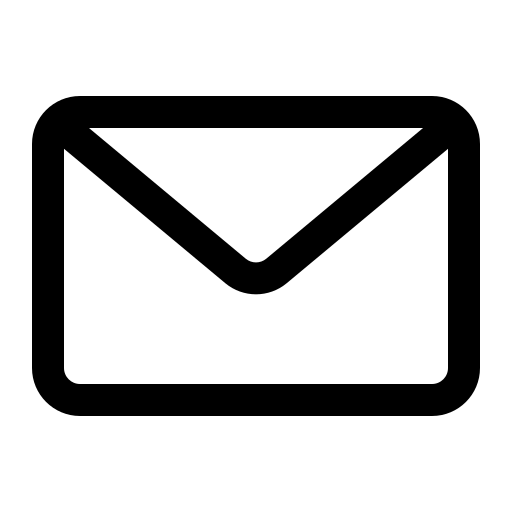
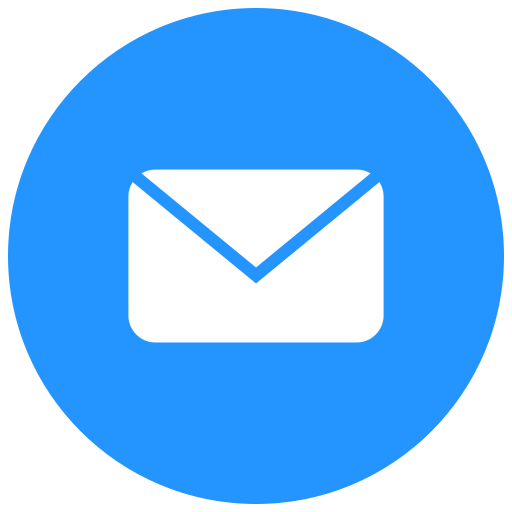
Projects, About Me, Skills, Contact
Fixed the styling and layout for projects and added a repo link for github repo and a live link for users who want to peek what the project is about

I fixed the layout and font size for the about me info.

I added a box shadow for the skills cards so they look 3d

I extended the contact page to have two sections one where you use app navigations and one where you type in the message you want to send.

diff --git a/index.html b/index.html
@@ -139,7 +139,7 @@
         <div class="projects">
           <div class="project_card">
             <div class="project_image">
-              <img src="#" alt="youtube_clone_image" class="p_image">
+              <img src="Images/youtube-clone.png" alt="youtube_clone_image" class="p_image">
             </div>
 
             <div class="project_info">
@@ -162,11 +162,21 @@
                 </P>
               </div>
             </div>
+
+            <div class="github_live_link">
+              <a href="https://github.com/KaelibDaGent/YouTube-Clone" class="github_repo">
+                <img src="icons/github.png" alt="github_repo_link" class="github_icon">
+              </a>
+
+              <a href="https://kaelibdagent.github.io/YouTube-Clone/" class="live_link">
+                <img src="icons/links.png" alt="live_link" class="live_link_icon">
+              </a>
+            </div>
         </div>
 
         <div class="project_card">
           <div class="project_image">
-            <img src="#" alt="rockpaperscissor_image" class="p_image">
+            <img src="Images/rock-paper-scissors.png" alt="rockpaperscissor_image" class="p_image">
           </div>
 
           <div class="project_info">
@@ -192,11 +202,21 @@
               </p>
             </div>
           </div>
+
+          <div class="github_live_link">
+              <a href="https://github.com/KaelibDaGent/Rock-Paper-Scissors-Game" class="github_repo">
+                <img src="icons/github.png" alt="github_repo_link" class="github_icon">
+              </a>
+
+              <a href="https://kaelibdagent.github.io/Rock-Paper-Scissors-Game/" class="live_link">
+                <img src="icons/links.png" alt="live_link" class="live_link_icon">
+              </a>
+            </div>
         </div>
 
         <div class="project_card">
           <div class="project_image">
-            <img src="#" alt="portfolio_image" class="p_image">
+            <img src="Images/portfolio.png" alt="portfolio_image" class="p_image">
           </div>
 
           <div class="project_info">
@@ -219,11 +239,21 @@
               </P>
             </div>
           </div>
+
+          <div class="github_live_link">
+              <a href="https://github.com/KaelibDaGent/Portfolio" class="github_repo">
+                <img src="icons/github.png" alt="github_repo_link" class="github_icon">
+              </a>
+
+              <a href="https://katlehokhosi.netlify.app/" class="live_link" >
+                <img src="icons/links.png" alt="live_link" class="live_link_icon">
+              </a>
+            </div>
         </div>
 
         <div class="project_card">
           <div class="project_image">
-            <img src="#" alt="todolist_image" class="p_image">
+            <img src="Images/todolist.png" alt="todolist_image" class="p_image">
           </div>
 
           <div class="project_info">
@@ -249,6 +279,16 @@
               </p>
             </div>
           </div>
+
+          <div class="github_live_link">
+              <a href="#" class="github_repo">
+                <img src="icons/github.png" alt="github_repo_link" class="github_icon">
+              </a>
+
+              <a href="#" class="live_link">
+                <img src="icons/links.png" alt="live_link" class="live_link_icon">
+              </a>
+            </div>
         </div>
         </div>
       </div>
@@ -363,31 +403,64 @@
           </p>
         </div>
 
-        <div class="contact_me">
-          <div>
-            <button>
-              Get in touch
-            </button>
+        <div class="contact_content">
+          <div class="contact_me">
+            <div class="socials">
+              <div class="social-link">
+                <a href="https://www.linkedin.com/in/katleho-khosi-77511425b/">
+                  <img src="icons/linkedin.png" class="linkedin">
+                </a>
+              </div>
+
+              <div class="social-link">
+                <a href="mailto:katleho_khosi@outlook.com">
+                  <img src="icons/message.png" class="linkedin">
+                </a>
+              </div>
+
+              <div class="social-link">
+                  <a href="https://www.tiktok.com/@kaelib_da_gent2?lang=en">
+                    <img src="icons/tiktok.png" class="linkedin">
+                  </a>
+              </div>
+            </div>
           </div>
 
-          <div class="socials">
-            <div class="social-link">
-              <a href="https://www.linkedin.com/in/katleho-khosi-77511425b/">
-                <img src="icons/linkedin.png" class="linkedin">
-              </a>
-            </div>
+          <div class="form_section">
+            <form class="getInTouch_form">
+              <div class="form_title">
+                <h2>
+                  Let's Chat
+                </h2>
+              </div>
 
-            <div class="social-link">
-              <a href="mailto:katleho_khosi@outlook.com">
-                <img src="icons/message.png" class="linkedin">
-              </a>
-            </div>
+              <div class="form_content">
+                <div class="names_email">
+                  <label for="username" class="username">
+                    Username:
+                  </label>
+                  <input type="text" class="username_input">
 
-           <div class="social-link">
-              <a href="https://www.tiktok.com/@kaelib_da_gent2?lang=en">
-                <img src="icons/tiktok.png" class="linkedin">
-              </a>
-            </div>
+                  <label for="user_email" class="user_email">
+                    Email:
+                  </label>
+                  <input class="user_email_input" type="email">
+                </div>
+
+                <div class="message_section">
+                  <label for="message_input" class="user_message">
+                    Message:
+                  </label>
+                  <input class="message_input" type="text">
+                </div>
+              </div>
+
+              <div class="form_btn">
+                <button class="submit_btn">
+                  Submit
+                </button>
+              </div>
+            </form>
           </div>
         </div>
       </div>
@@ -395,7 +468,7 @@
 
     <footer>
       <p>Copyright by Katleho Khosi - BSc Information Technology Student - 2026 -
-        <a href="https://www.flaticon.com/free-icons/programming-languages" title="icons">Html icons created by Magnific - Flaticon</a>
+        <a href="https://www.flaticon.com/free-icons/programming-languages" title="icons">Programming languages icons created by Magnific - Flaticon</a>
       </p>
     </footer>
   </body>

diff --git a/Styles/projects.css b/Styles/projects.css
@@ -10,5 +10,85 @@
   align-items: center;
   justify-content: center;
   column-gap: 20px;
+  flex-wrap: wrap;
 }
 
+.project_card {
+  padding: 8px;
+  margin: 12px;
+  height: 290px;
+  width: 300px;
+  border-radius: 14px;
+  overflow: hidden;
+  box-shadow: 0px 2px 10px rgb(0, 0, 0,  0.4);
+}
+
+.project_image {
+  height: 160px;
+  width: 300px;
+  margin-bottom: 6px;
+}
+
+.p_image {
+  height: 100%;
+  width: 100%;
+  object-fit: cover;
+}
+
+.project_info {
+  padding: 4px;
+}
+
+.p_name {
+  font-weight: bold;
+  font-size: 16px;
+  line-height: normal;
+}
+
+.project_description {
+  display: inherit;
+  flex-direction: column;
+}
+
+.p_description {
+  font-size: 14px;
+  line-height: 100%;
+  margin-top: 4px;
+  margin-bottom: 4px;
+}
+
+.project_languages {
+  display: flex;
+  flex-direction: row;
+  column-gap: 6px;
+}
+
+.p_language {
+  background-color: black;
+  color: whitesmoke;
+  font-size: 12px;
+  font-weight: bold;
+  border-radius: 11px;
+  padding: 6px;
+}
+
+.github_live_link {
+  display: flex;
+  flex-direction: row;
+  gap: 12px;
+  align-items: center;
+  justify-content: end;
+}
+
+.github_repo,
+.live_link {
+  height: 20px;
+  width: 20px;
+}
+
+.github_icon,
+.live_link_icon {
+  height: 100%;
+  width: 100%;
+  object-fit: cover;
+}

diff --git a/Styles/contact.css b/Styles/contact.css
@@ -1,7 +1,7 @@
 .contact_section {
   display: flex;
   flex-direction: column;
-  min-height: 768px;
+  min-height: 700px;
 }
 
 .socials {
@@ -21,7 +21,68 @@
   object-fit: cover;
 }
 
+.contact_content {
+  display: flex;
+  flex-direction: row;
+}
 
+.contact_me {
+  display: flex;
+  border: 1px black solid;
+  height: 700px;
+  width: 50%;
+  align-items: center;
+  justify-content: center;
+}
+
+.social-link {
+  height: 30px;
+  width: 30px;
+}
+
+.linkedin {
+  height: 100%;
+  width: 100%;
+}
+
+.form_section {
+  display: flex;
+  flex-direction: column;
+  border: 1px black solid;
+  height: 700px;
+  width: 50%;
+  justify-content: center;
+  align-items: center;
+}
+
+form {
+  display: flex;
+  flex-direction: column;
+  flex-wrap: wrap;
+  justify-content: center;
+  align-items: center;
+  gap: 30px; /* Clean spacing between cards */
+  width: 100%;
+  max-width: 500px;
+  border: 1px black solid;
+  
+  /* BULLETPROOF VERTICAL CENTERING TRICK: */
+  margin-top: auto;
+  margin-bottom: auto;
+}
+
+.form_title,
+.form_btn {
+  display: flex;
+  align-items: center;
+  justify-content: center;
+}
+
+.names_email,
+.message_section {
+  display: flex;
+  flex-direction: column;
+}
 
 footer {
   display: flex;

diff --git a/Styles/about.css b/Styles/about.css
@@ -1,5 +1,26 @@
 .about_section {
   display: flex;
   flex-direction: column;
-  min-height: 768px;
+  min-height: 600px;
+}
+
+.about_me {
+  display: flex;
+  flex-wrap: wrap;
+  justify-content: center;
+  align-items: center;
+  gap: 30px; /* Clean spacing between cards */
+  width: 100%;
+  max-width: 600px;
+  align-self: center;
+  
+  /* BULLETPROOF VERTICAL CENTERING TRICK: */
+  margin-top: auto;
+  margin-bottom: auto;
+}
+
+.about_me p {
+  font-size: 16px;
+  font-weight: 400;
+  line-height: 20px;
 }

diff --git a/Styles/skills.css b/Styles/skills.css
@@ -36,6 +36,9 @@
   justify-content: center;
   width: 100px; /* Gives "JavaScript" enough room so it doesn't break layout */
   text-align: center;
+  box-shadow: 2px 0px 8px rgba(0, 0, 0, 0.4);
+  border-radius: 8px;
+  padding: 8px;
 }
 
 .skill_image {

diff --git a/Styles/general.css b/Styles/general.css
@@ -6,5 +6,5 @@
 }
 
 body {
-  background-color: #021024;
+  background-color: white;
 }
